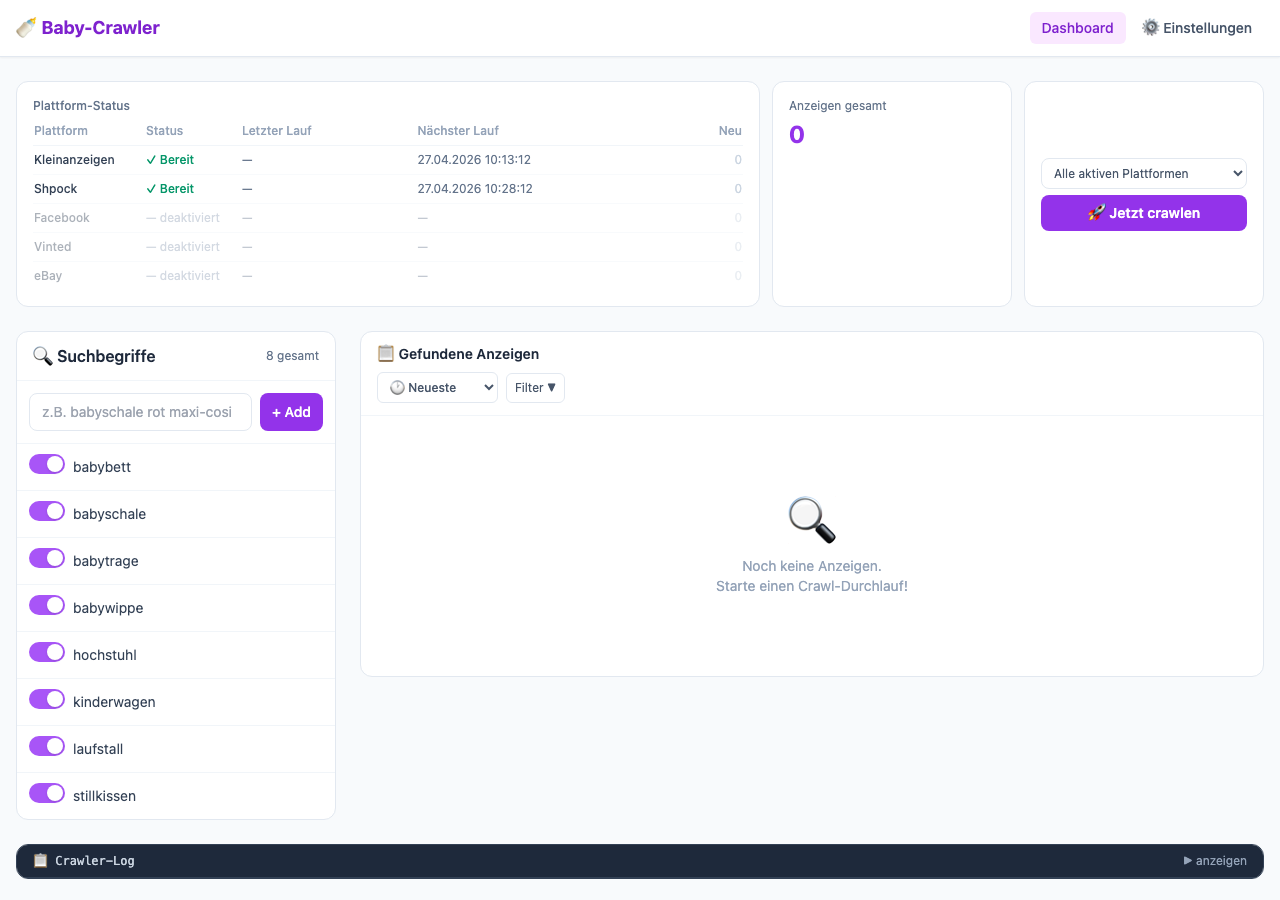
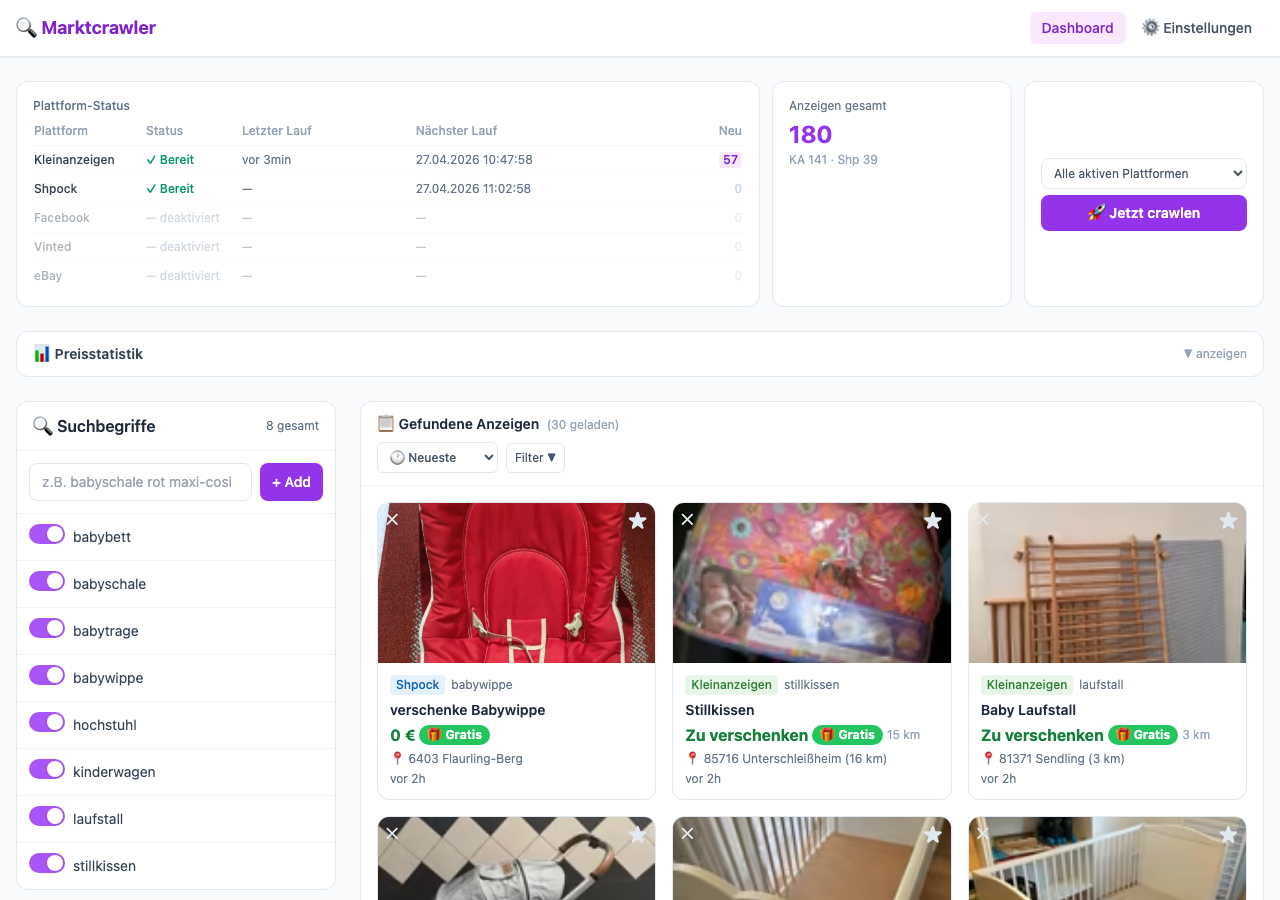
chore: switch license to CC BY-NC 4.0, update screenshots
- Replace MIT with Creative Commons Attribution-NonCommercial 4.0
- Update README badge and license section
- Retake screenshots with Marktcrawler branding

diff --git a/README.md b/README.md
@@ -6,7 +6,7 @@ Ein selbst gehosteter Web-Crawler – durchsucht **Kleinanzeigen.de**, **Shpock*
 ![Flask](https://img.shields.io/badge/Flask-3.0-lightgrey?logo=flask)
 ![Docker](https://img.shields.io/badge/Docker-ready-2496ED?logo=docker&logoColor=white)
 ![Tests](https://img.shields.io/badge/Tests-342%20passed-brightgreen?logo=pytest)
-![License](https://img.shields.io/badge/License-MIT-green)
+![License](https://img.shields.io/badge/License-CC%20BY--NC%204.0-lightgrey)
 
 ---
 
@@ -333,7 +333,9 @@ Anzeigen älter als 30 Tage werden automatisch bereinigt. **Favoriten werden dab
 
 ## 📄 Lizenz
 
-MIT – frei verwendbar für private und kommerzielle Zwecke.
+[Creative Commons Attribution-NonCommercial 4.0 International (CC BY-NC 4.0)](https://creativecommons.org/licenses/by-nc/4.0/)
+
+Frei nutzbar für private und nicht-kommerzielle Zwecke. Eine kommerzielle Nutzung ist nicht gestattet.
 
 ---
 
